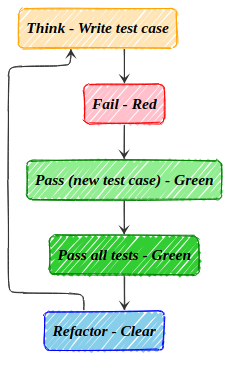
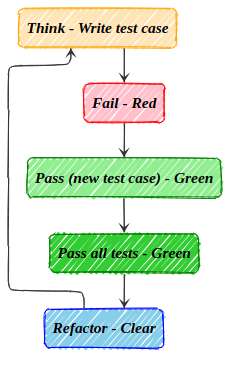
avoiding the clangers (#39)

diff --git a/articles/tdd_avoiding_the_clangers.md b/articles/tdd_avoiding_the_clangers.md
@@ -1,4 +1,4 @@
-'''---
+---
 canonical_url: null
 cover_image: https://raw.githubusercontent.com/jonashdown/Blog/main/_pngs/clangers.jpg
 description: "How to avoid the clangers in test-driven development"
@@ -9,12 +9,12 @@ title: TDD - Avoiding the Clangers
 
 Test-Driven Development, when done correctly, will provide the following benefits to any development team and organization:
 
-- Direction in coding.
-- Documentation.
-- Ongoing proof that software continues to work.
-- Succinct, high-quality code.
-- Fewer bugs.
-- Confidence in the codebase.
+- Direction in coding
+- Documentation
+- Ongoing proof that software continues to work
+- Succinct, high-quality code
+- Fewer bugs
+- Confidence in the codebase
 
 If done incorrectly, we could have a clanger, which could manifest as a bug in the future.
 
@@ -26,7 +26,44 @@ The key thing to note here is the failing test. If the test passes, then either 
 
 This can be visualized in the TDD Cycle:
 
-![diagram](https://raw.githubusercontent.com/jonashdown/Blog/main/_pngs/tdd_avoiding_the_clangers-1.png)
+```mermaid
+---
+displayMode: compact
+config:
+  look: handDrawn
+  layout: elk
+elk:
+  nodePlacementStrategy: LINEAR_SEGMENTS
+---
+
+stateDiagram-v2
+
+  think : Think - Write test case
+  fail: Fail - Red
+  pass: Pass (new test case) - Green
+  passAll: Pass all tests - Green
+  refactor: Refactor - Clear
+
+  think --> fail
+  fail --> pass
+  pass --> passAll
+  passAll --> refactor
+  refactor --> think
+
+  classDef block stroke-width:1px,color:black,font-style: italic, font-weight: bold, font-family: serif
+
+  classDef orange fill:moccasin,stroke:orange
+  classDef red fill:pink,stroke:red
+  classDef lightGreen fill:lightgreen,stroke:green
+  classDef darkGreen fill:limegreen,stroke:green
+  classDef blue fill:skyblue,stroke:blue
+
+  class think orange block
+  class fail red block
+  class pass lightGreen block
+  class passAll darkGreen block
+  class refactor blue block
+```
 
 ## Advanced Theory
 
@@ -36,7 +73,42 @@ There are several levels of testing, most of which can be automated. Whilst unit
 
 The pyramid of testing conceptually arranges these testing levels with manual testing at the top of the pyramid, end-to-end testing (where we test the full system), followed by integration testing (where we test some of the system and mock dependencies between services), and finally, unit testing (where we test the code and mock clients to services).
 
-![diagram](https://raw.githubusercontent.com/jonashdown/Blog/main/_pngs/tdd_avoiding_the_clangers-2.png)
+```mermaid
+---
+displayMode: compact
+config:
+  look: handDrawn
+  flowchart:
+    rankSpacing: 5
+---
+
+graph TD
+
+  manual@{ shape: tri, label: "Manual
+Testing
+#emsp;"}
+  e2e[/" End-to-End Tests "\]
+  int_test[/"#emsp; Integration Tests #emsp;"\]
+  unit_test[/"#emsp;#emsp;#emsp;#emsp; Unit Tests #emsp;#emsp;#emsp;"\]
+  manual --- e2e
+  e2e --- int_test
+  int_test --- unit_test
+
+  classDef pyramid stroke-width:2px, color:black
+
+  class manual pyramid
+  class e2e pyramid
+  class int_test pyramid
+  class unit_test pyramid
+
+  style manual fill:#f8d7da,stroke:#dc3545
+  style e2e fill:#fff3cd,stroke:#ffc107,stroke-width:2px
+  style int_test fill:#d1ecf1,stroke:#17a2b8
+  style unit_test fill:#d1e7dd,stroke:#28a745,stroke-width:2px
+
+  linkStyle default stroke-width:0px;
+
+```
 
 As we go up the pyramid, any bugs that we find become more expensive. A bug found at the unit-test level might take an hour or so of developer time to fix, whilst bugs found at the very top of the pyramid could result in lost sales, lost trust, or, if we breach GDPR laws, £20 million fines and prison sentences.
 
@@ -61,7 +133,64 @@ BDD without TDD proves the feature is correct, but debugging will be difficult.
 BDD and TDD should be considered complementary, with BDD describing the feature (what) and TDD describing the implementation (how).
 
 
-![diagram](https://raw.githubusercontent.com/jonashdown/Blog/main/_pngs/tdd_avoiding_the_clangers-3.png)
+```mermaid
+---
+displayMode: compact
+config:
+  look: handDrawn
+---
+
+stateDiagram-v2
+  direction TB
+
+  state BDD {
+    thinkBDD : Think - Write feature test
+    failBDD: Fail - Red
+    passBDD: Pass (new test case) - Green
+    passAllBDD: Pass all Feature Tests - Green
+
+    thinkBDD --> failBDD
+    passBDD --> passAllBDD
+    passAllBDD --> thinkBDD
+  }
+
+  state TDD {
+    thinkTDD : Think - Write unit test
+    failTDD: Fail - Red
+    passTDD: Pass (new test case) - Green
+    passAllTDD: Pass all tests - Green
+    refactor: Refactor - Clear
+
+    thinkTDD --> failTDD
+    failTDD --> passTDD
+    passTDD --> passAllTDD
+    passAllTDD --> refactor
+    refactor --> thinkTDD
+  }
+
+  failBDD --> thinkTDD
+  refactor --> passBDD
+
+  classDef block stroke-width:1px,color:black
+
+  classDef orange fill:moccasin,stroke:orange
+  classDef red fill:lightcoral,stroke:red
+  classDef lightGreen fill:lightgreen,stroke:green
+  classDef darkGreen fill:limegreen,stroke:green
+  classDef blue fill:skyblue,stroke:blue
+
+  class thinkTDD orange block
+  class failTDD red block
+  class passTDD lightGreen block
+  class passAllTDD darkGreen block
+  class refactor blue block
+
+  class thinkBDD orange block
+  class failBDD red block
+  class passBDD lightGreen block
+  class passAllBDD darkGreen block
+
+```
 
 ### Test for the Presence of a Function
 
@@ -537,4 +666,3 @@ It would be better to simply delete this test and have an end-to-end test that a
 
 - [Buy me a coffee](https://buymeacoffee.com/jonashdown)
 - [Ko-fi](https://ko-fi.com/Y8Y1HG7Q3)
-'''
